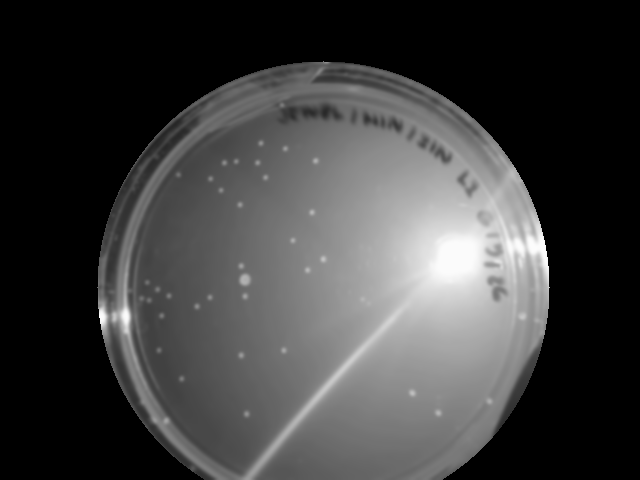
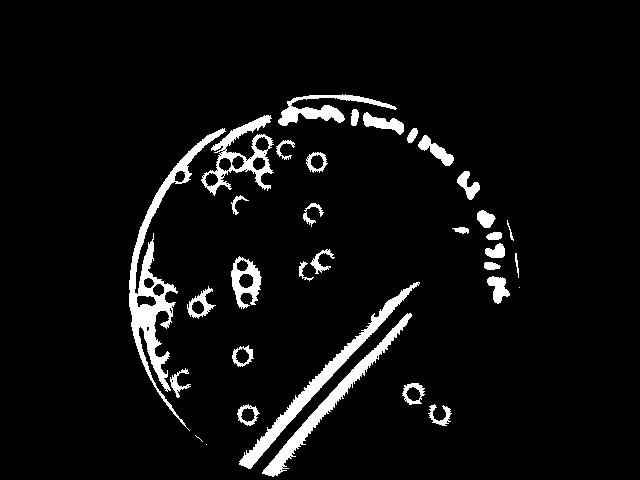
add mask and radius

diff --git a/opencv_process.py b/opencv_process.py
@@ -35,6 +35,11 @@ def detect_dish(image):
         print(f"No dish found in {name}")
 
     x, y, r = np.uint16(np.around(circles))[0][0]
+    return (x,y,r)
+
+x,y,r = detect_dish(gray)
+
+def apply_mask(image,x,y,r):
 
     # Create mask with detected circle and apply to image
     mask = np.zeros_like(image)
@@ -45,7 +50,7 @@ def detect_dish(image):
 
     return masked
 
-masked = detect_dish(gray)
+masked = apply_mask(gray,x,y,r)
 
 cv2.imshow("Masked Image",masked)
 cv2.waitKey(0)
@@ -89,3 +94,60 @@ thresholded = threshold_image(clean)
 
 cv2.imshow("Thresholded Image",thresholded)
 cv2.waitKey(0)
+
+x_t,y_t,r_t = detect_dish(thresholded)
+Thresholded_inner = apply_mask(thresholded,x_t,y_t,r_t-30)
+cv2.imshow("Inner Thresholded Image",Thresholded_inner)
+cv2.waitKey(0)
+
+"""
+Thresholded_inner
+↓
+Remove large artifacts like glare
+↓
+Distance transform
+↓
+Sure foreground
+↓
+Sure background
+↓
+Watershed markers
+↓
+Watershed segmentation
+↓
+Count separated colonies
+"""
+
+def remove_large_artifacts(binary_image, min_area=20, max_area=800, max_aspect_ratio=3):
+    num_labels, labels, stats, centroids = cv2.connectedComponentsWithStats(
+        binary_image,
+        connectivity=8
+    )
+
+    cleaned = np.zeros_like(binary_image)
+
+    for i in range(1, num_labels):  # skip background
+        area = stats[i, cv2.CC_STAT_AREA]
+        width = stats[i, cv2.CC_STAT_WIDTH]
+        height = stats[i, cv2.CC_STAT_HEIGHT]
+
+        if width == 0 or height == 0:
+            continue
+
+        aspect_ratio = max(width, height) / min(width, height)
+
+        if area >= min_area and area <= max_area and aspect_ratio <= max_aspect_ratio:
+            cleaned[labels == i] = 255
+
+    return cleaned
+
+artifact_removed = remove_large_artifacts(
+    Thresholded_inner,
+    min_area=20,
+    max_area=800,
+    max_aspect_ratio=3
+)
+
+cv2.imshow("Large Artifacts Removed", artifact_removed)
+cv2.waitKey(0)
+